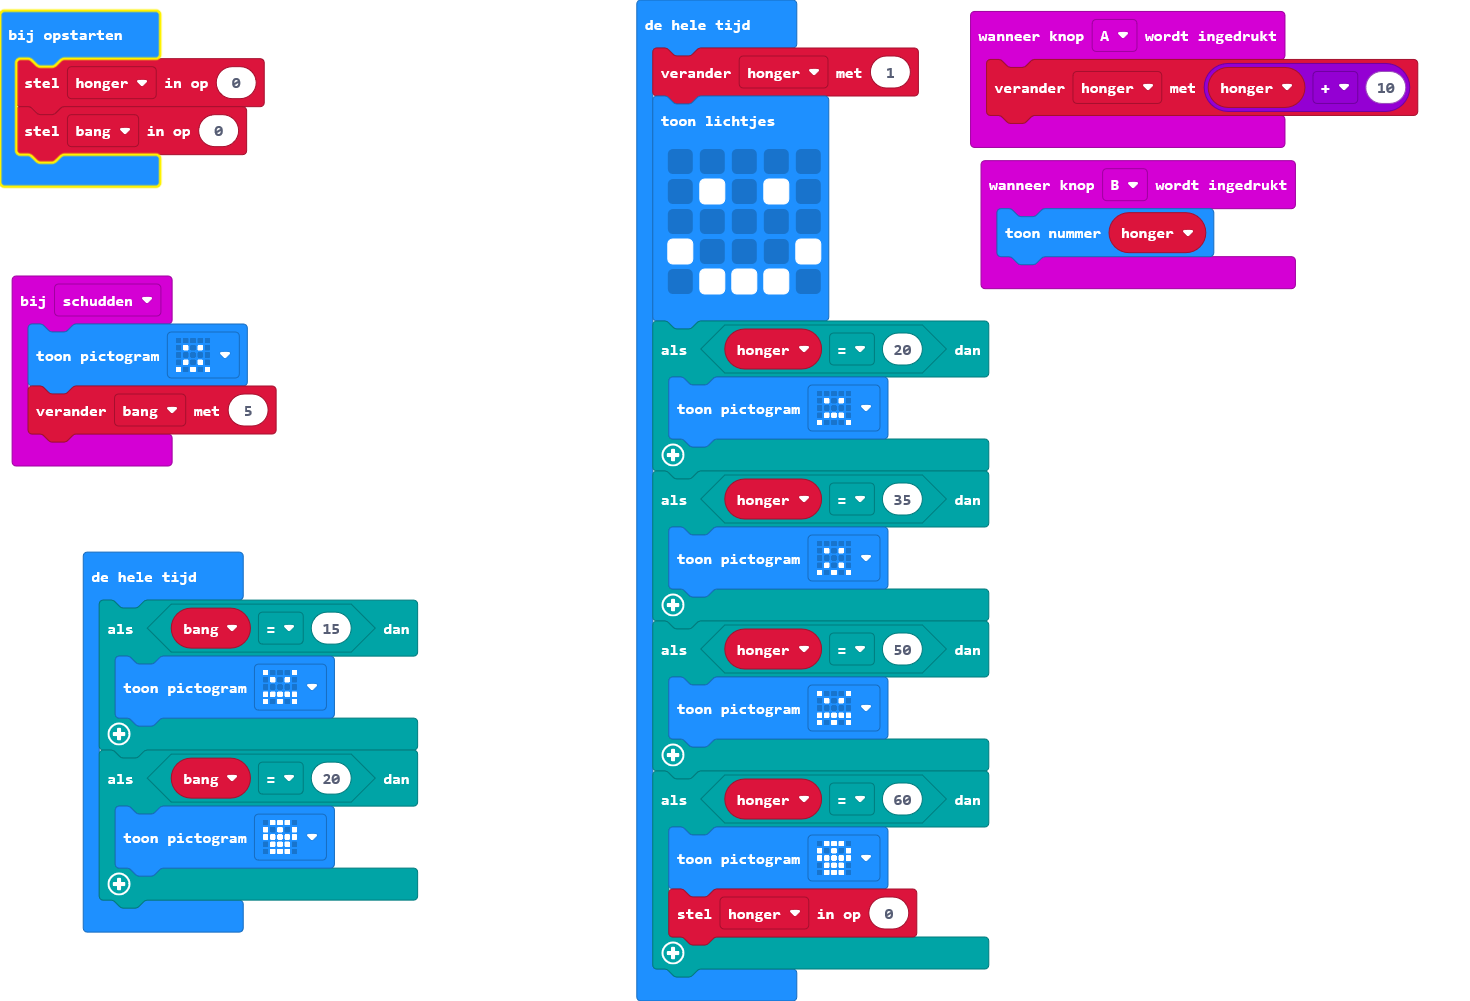
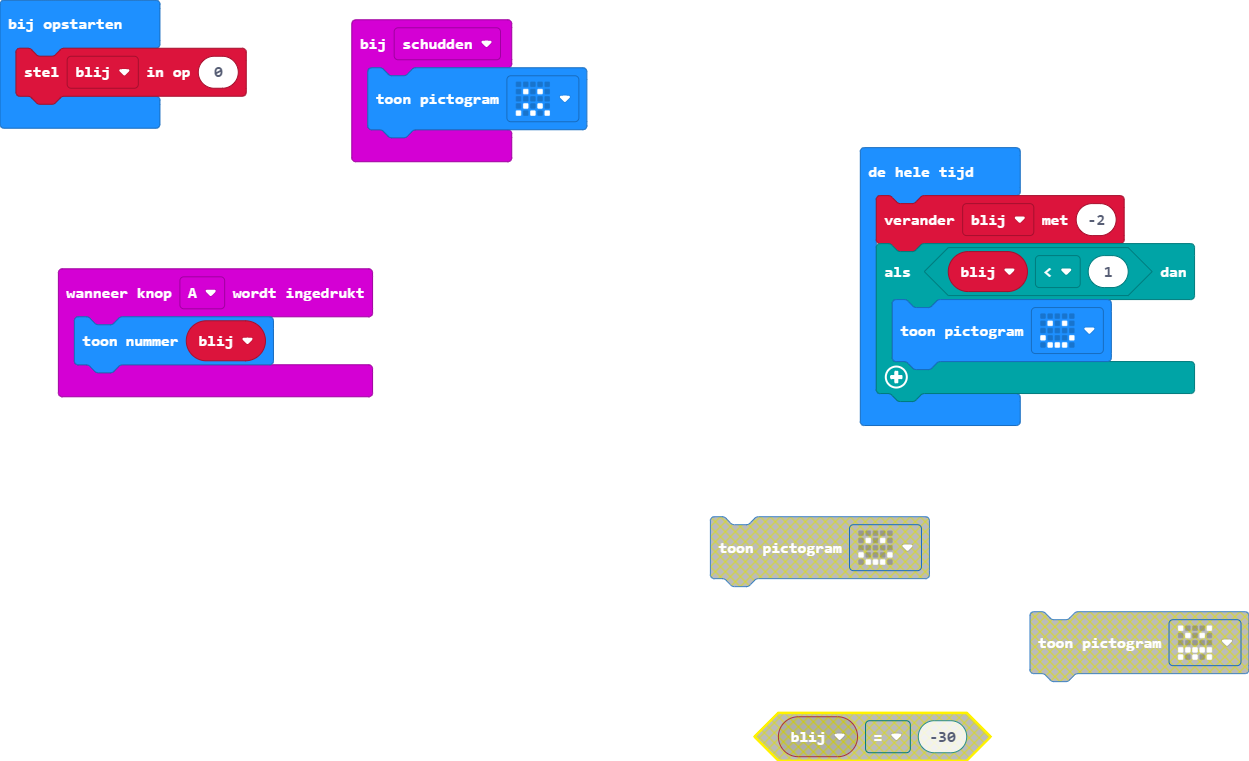
main.blocks, main.ts bijwerken

diff --git a/main.ts b/main.ts
@@ -1,44 +1,14 @@
 input.onButtonPressed(Button.A, function () {
-    honger += honger + 10
+    basic.showNumber(blij)
 })
 input.onGesture(Gesture.Shake, function () {
     basic.showIcon(IconNames.Confused)
-    bang += 5
 })
-input.onButtonPressed(Button.B, function () {
-    basic.showNumber(honger)
-})
-let honger = 0
-honger = 0
-let bang = 0
+let blij = 0
+blij = 0
 basic.forever(function () {
-    honger += 1
-    basic.showLeds(`
-        . . . . .
-        . # . # .
-        . . . . .
-        # . . . #
-        . # # # .
-        `)
-    if (honger == 20) {
-        basic.showIcon(IconNames.Sad)
-    }
-    if (honger == 35) {
-        basic.showIcon(IconNames.Confused)
-    }
-    if (honger == 50) {
-        basic.showIcon(IconNames.Angry)
-    }
-    if (honger == 60) {
-        basic.showIcon(IconNames.Skull)
-        honger = 0
-    }
-})
-basic.forever(function () {
-    if (bang == 15) {
-        basic.showIcon(IconNames.Angry)
-    }
-    if (bang == 20) {
-        basic.showIcon(IconNames.Skull)
+    blij += -2
+    if (blij < 1) {
+        basic.showIcon(IconNames.Happy)
     }
 })
